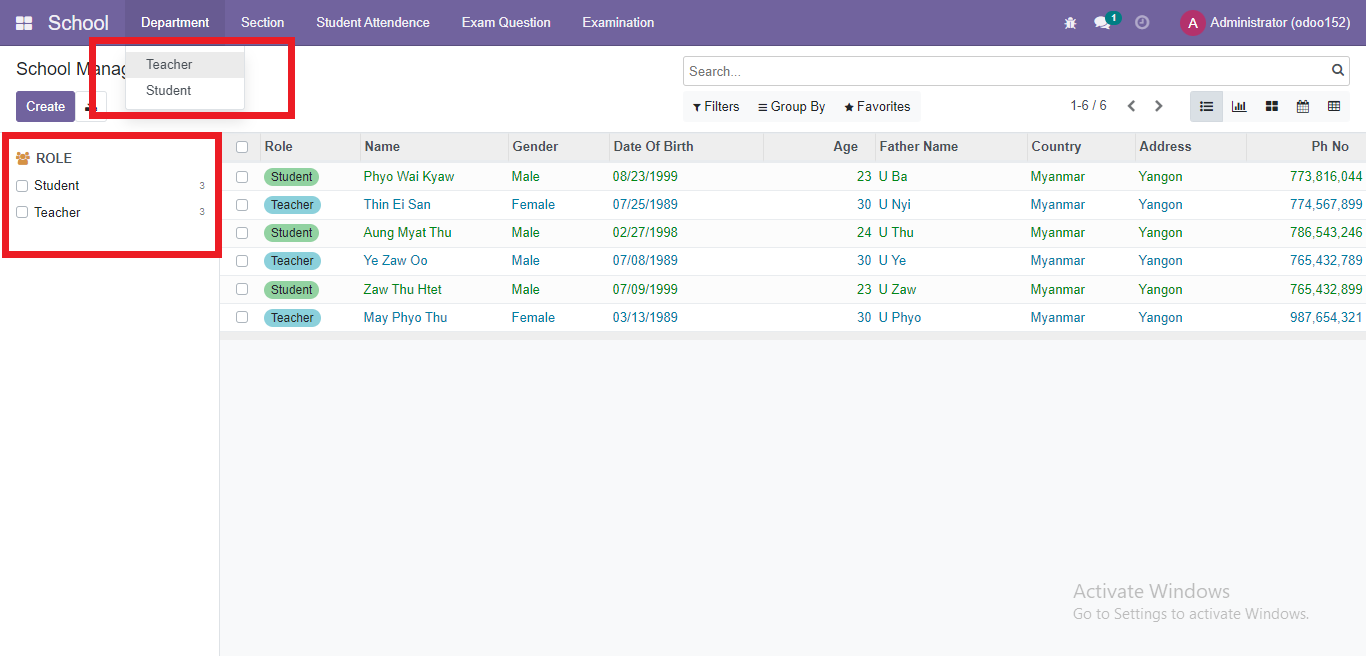
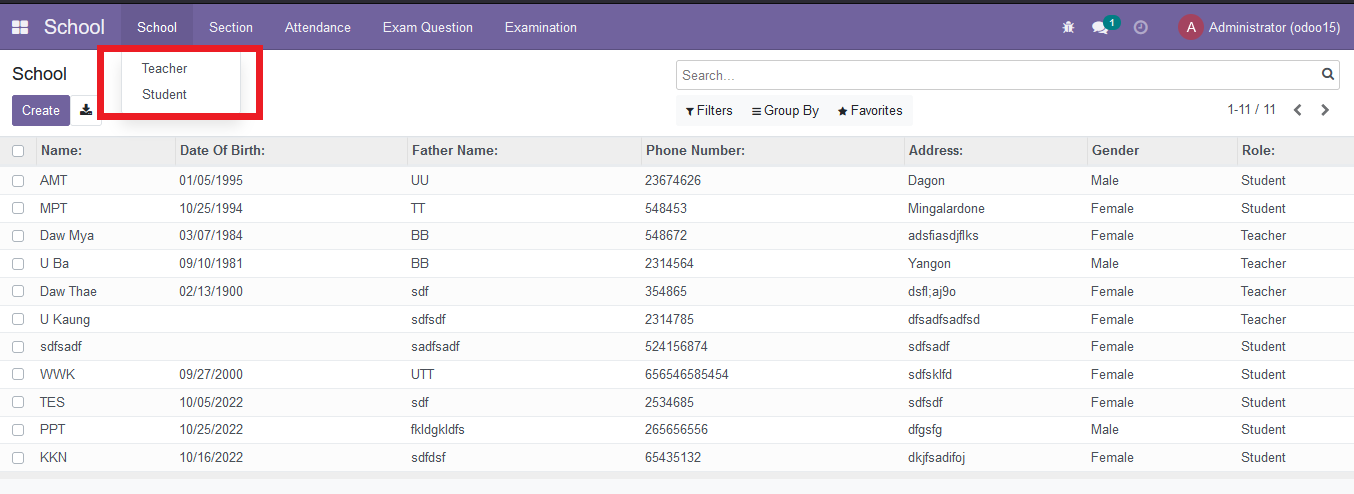
User's manual final update by wwk

diff --git a/Team_C.md b/Team_C.md
@@ -33,8 +33,8 @@ To run this system you need to install our custom module in odoo version 15. By 
 ## Operation
 
 ### Create Data
-Go To ***Department*** menu and click create button to create new data.
-![install](./img/create.png)
+Go To ***School*** main menu and click create button to create new data.
+![create](./img/create.png)
 
 Choose role like teacher or student. If teacher, you can select teacher role like principal, teacher and teacher head.<br>
 Create new student
@@ -52,23 +52,23 @@ To create new section go to ***Section*** menu. A section can have one teacher h
 ![section](./img/section_create.png)
 
 ### Create Attendance
-For creating new attendance record Go to > Student Attendance > Attendance Record. 
+For creating new attendance record Go to > Attendance > Roll call. 
 ![attendance](./img/attendance.png)
 ![attendance](./img/attendance_create.png)
 ### Monthly Report
-Go to > Attendance > Monthly Attendance to view monthly attendance of each section
-![attendance](./img/monthly_attendance.png)
-![App Screenshot](https://via.placeholder.com/468x300?text=App+Screenshot+Here)
+Go to > Attendance > Monthly Report to view monthly attendance of each section
+![attendance](./img/monthly.png)
+![attendance](./img/monthly_create.png)
 
 ### Create Exam Questions
 Go to ***Exam Question*** menu, write questions and define correct answers.Can hide some questions that do not want to show in exam form view by removing check mark  in the active column .
-![question](./img/question.png)
-![question](./img/question_create.png)
-![question](./img/question_hide.png)
+![question](./img/exam.png)
+![question](./img/exam_create.png)
+![question](./img/exam_hide.png)
 
 ### Test Exam and Generate Result
-To answer exam questions go to ***Examination*** menu. Choose course in the status bar. Students whose roll-call precentage is at least 75% can answer exam.
-![App Screenshot](https://via.placeholder.com/468x300?text=App+Screenshot+Here)
-
+To answer exam questions go to ***Examination*** menu and choose subject. Students whose roll-call precentage is at least 75% can answer exam.
+![result](./img/answer.png)
 After selecting course, you can answer questions. And then, click submit button to see your result.
-![App Screenshot](https://via.placeholder.com/468x300?text=App+Screenshot+Here)
+![result](./img/answer_create.png)
+![result](./img/answer_submit.png)
